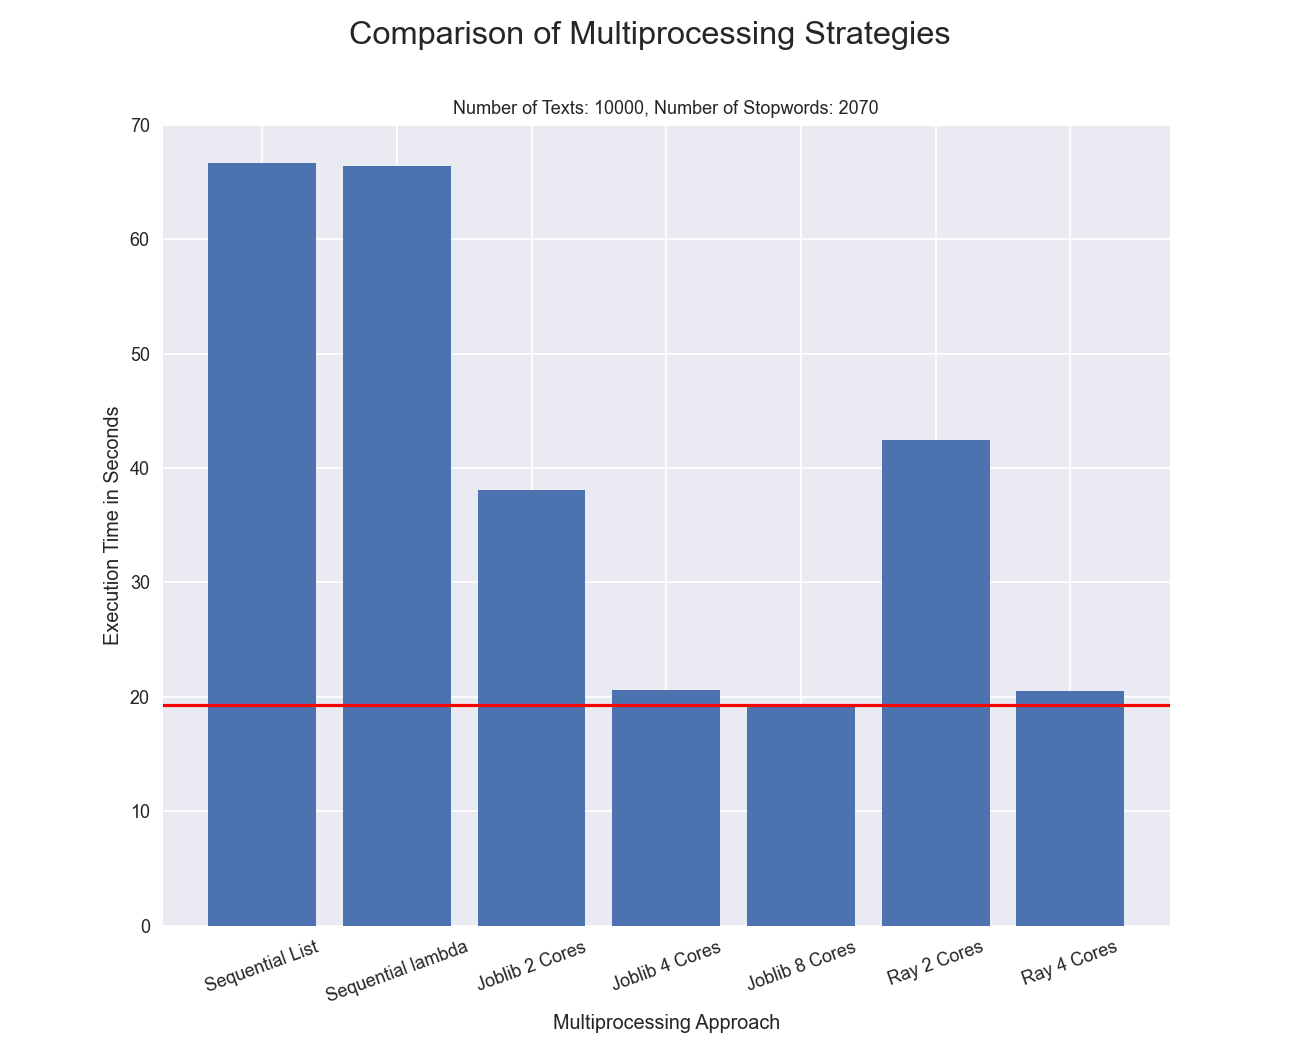
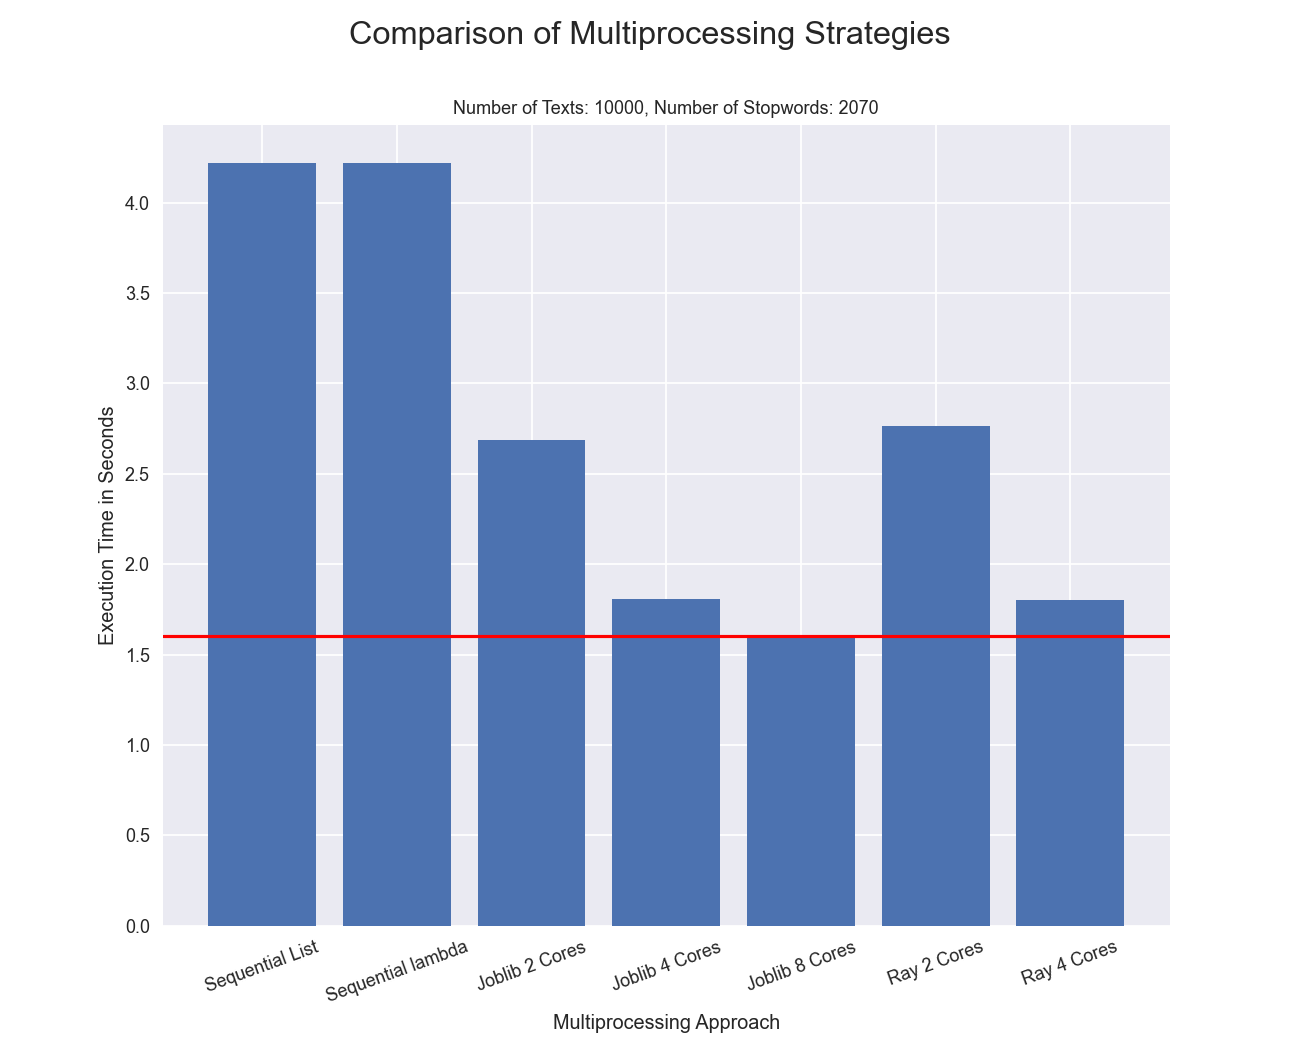
Improved Preprocessing Function, added parallel library to R Preprocessing, added new plots

diff --git a/NLP_Multiprocessing_For_Preprocessing_Experiment.py b/NLP_Multiprocessing_For_Preprocessing_Experiment.py
@@ -1,6 +1,7 @@
 import pandas as pd
 import time
 import timeit
+import numpy as np
 
 from joblib import Parallel, delayed
 import multiprocessing as mp
@@ -30,16 +31,11 @@ def remove_stop_words(text):
     whitespaces and remove then stopwords that appear in list"""
 
     # split text by whitespace
-    tokenized_text = str(text).split(" ")
-    new_text = ""
-
-    # remove stopwords
-    for token in tokenized_text:
-        # Check if the word is in NLTKs stopword list
-        if token in stopwords_list:
-            pass
-        else:
-            new_text += " " + str(token)
+    x = np.array(text.split(" "))
+    # check if word is in  stopwords
+    x =  x[np.isin(x, stopwords_list) == False]
+    # join again
+    new_text = ' '.join(x.tolist())
 
     # if text is longer than 5 characters return modified text
     # else return original text
@@ -70,9 +66,9 @@ print(len(stopwords_list))
 
 test_dict = {
     # Number of Stop words to remove
-    "#Stopwords": [100],
+    "#Stopwords": [100, 2070],
     # Number of news articles to include
-    "#news_articles": [500000],
+    "#news_articles": [200, 10000, 500000],
     #libraries and number of cores to test out
     "Libraries": {"Joblib": [2, 4, 8], "Ray":[2, 4],}
 }
@@ -82,7 +78,7 @@ for number_of_texts in test_dict["#news_articles"]:
     df = all_data.head(number_of_texts)
     for number_of_stopwords in test_dict["#Stopwords"]:
 
-        stopwords_list = original_stopwords_list[:number_of_stopwords]
+        stopwords_list = np.array(original_stopwords_list[:number_of_stopwords])
         # to store the results of the experiment
         model_name_list = []
         execution_time_list = []

diff --git a/NLP_Preprocessing_Functions.py b/NLP_Preprocessing_Functions.py
@@ -134,24 +134,27 @@ def normalize_text(text):
     return text
 
 
-# custom stoplist
-customized_stopwords = ["and", "or", "either", "to",
-                        "such", "sure", "so", "also", "usually", "just",
-                        "but", "however", "additionally", "furthermore", "while", "besides",
-                        "are", "is", "be", "will", "make", "am", "has", "may", "might", "would", "can", "should",
-                        "allow", "make", "use"]
+# load stopwords
+stopwords_list = []
+with open('./Data/stopwords.txt') as f:
+    for line in f.readlines():
+        if str(line)[0] != "#":
+            stopwords_list.append(str(line).replace("\n", ""))
+stopwords_list = np.array(stopwords_list)
 
 def remove_stop_words(text):
-    tokenized_text = str(text).split(" ")
-    new_text = ""
+    """ A simple function that first splits text via
+    whitespaces and remove then stopwords that appear in list"""
 
-    for token in tokenized_text:
-        # Check if the word is in NLTKs stopword list
-        if token in customized_stopwords:
-            pass
-        else:
-            new_text += " " + str(token)
+    # split text by whitespace
+    x = np.array(text.split(" "))
+    # check if word is in  stopwords
+    x =  x[np.isin(x, stopwords_list) == False]
+    # join again
+    new_text = ' '.join(x.tolist())
 
+    # if text is longer than 5 characters return modified text
+    # else return original text
     if len(new_text) > 5:
         return new_text
     else:
